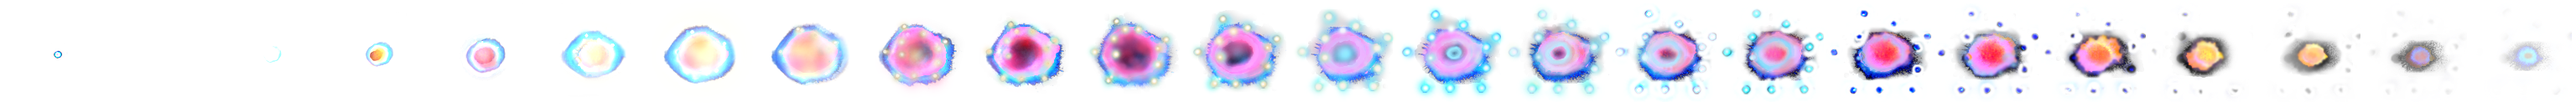
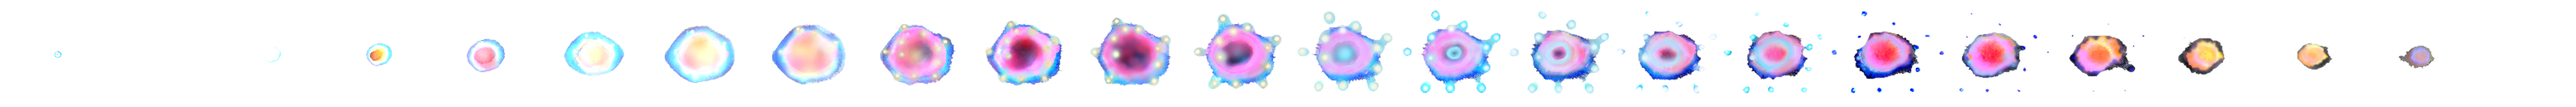
Started work on the explosion animation, changed the alpha channel on explosion sheet

diff --git a/main.py b/main.py
@@ -289,6 +289,14 @@ def main():
 	ship_sheet = spritesheet.spritesheet('art/double_ship.png')
 	ship_images = ship_sheet.images_at(((0, 0, 90, 90),(90, 0, 90,90)), colorkey=(255, 255, 255))
 	
+	global explosion_info
+	explosion_info = ImageInfo([64, 64], [128, 128], 17, 24, True)
+	explosion_sheet = spritesheet.spritesheet('art/explosion_alpha.png')
+	global explosion_images
+	# TODO: load this shizz in a less shitty manner
+	explosion_images = explosion_sheet.images_at(((0, 0, 128, 128),(128, 0, 128, 128), (128*2, 0, 128, 128), (128*3, 0, 128, 128), (128*4, 0, 128, 128), (128*5, 0, 128, 128)
+		), (128*6, 0, 128, 128), (128*7, 0, 128, 128), (128*8, 0, 128, 128), (128*9, 0, 128, 128), (128*10, 0, 128, 128), (128*11, 0, 128, 128), (128*12, 0, 128, 128), (128*13, 0, 128, 128)), colorkey=(255,255,255))
+	
 	global asteroid_info
 	asteroid_info = ImageInfo([45, 45], [90, 90], 40)
 	global asteroid_image
@@ -367,6 +375,7 @@ def main():
 		screen.blit(debris_image,((wtime - WIDTH / 2) - 320, (HEIGHT / 2) - 240))
 		screen.blit(debris_image,((wtime + WIDTH / 2) - 320, (HEIGHT / 2) - 240))
 		
+		screen.blit(explosion_images[5], (WIDTH/2, HEIGHT/2))
 		my_ship.draw(screen)
 		process_sprite_group(missile_group, screen)
 		process_sprite_group(rock_group, screen)
